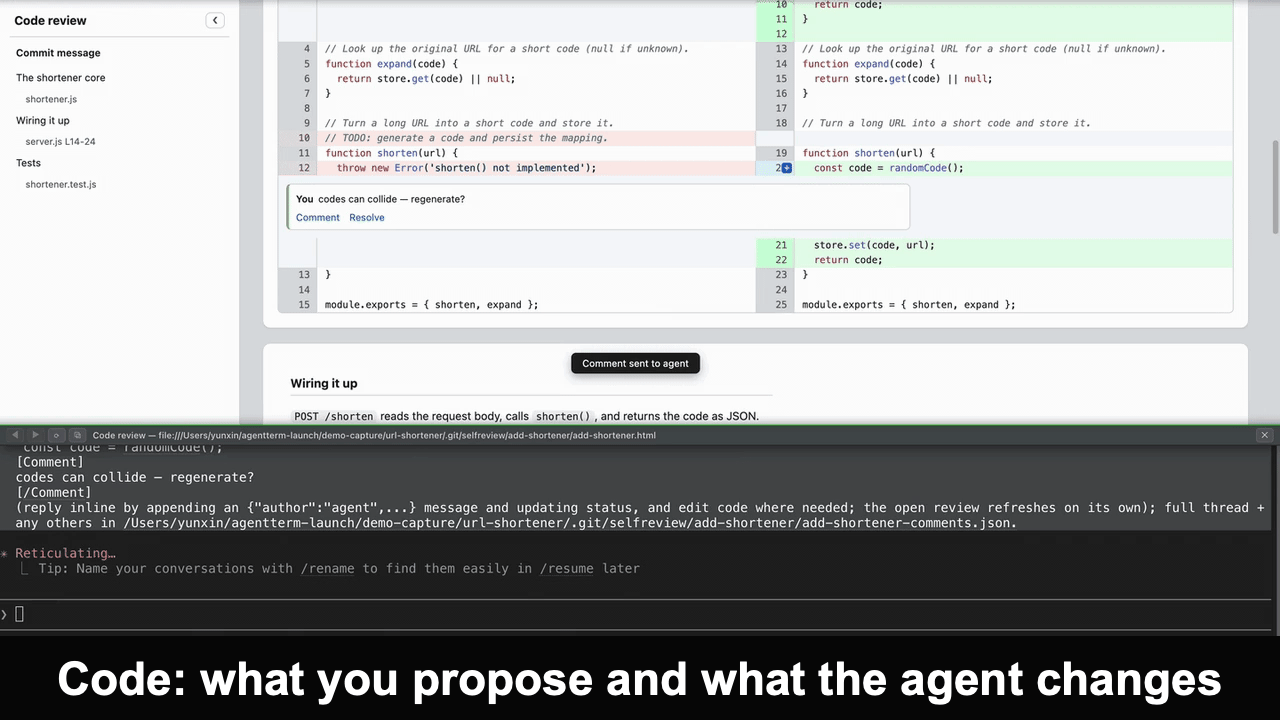
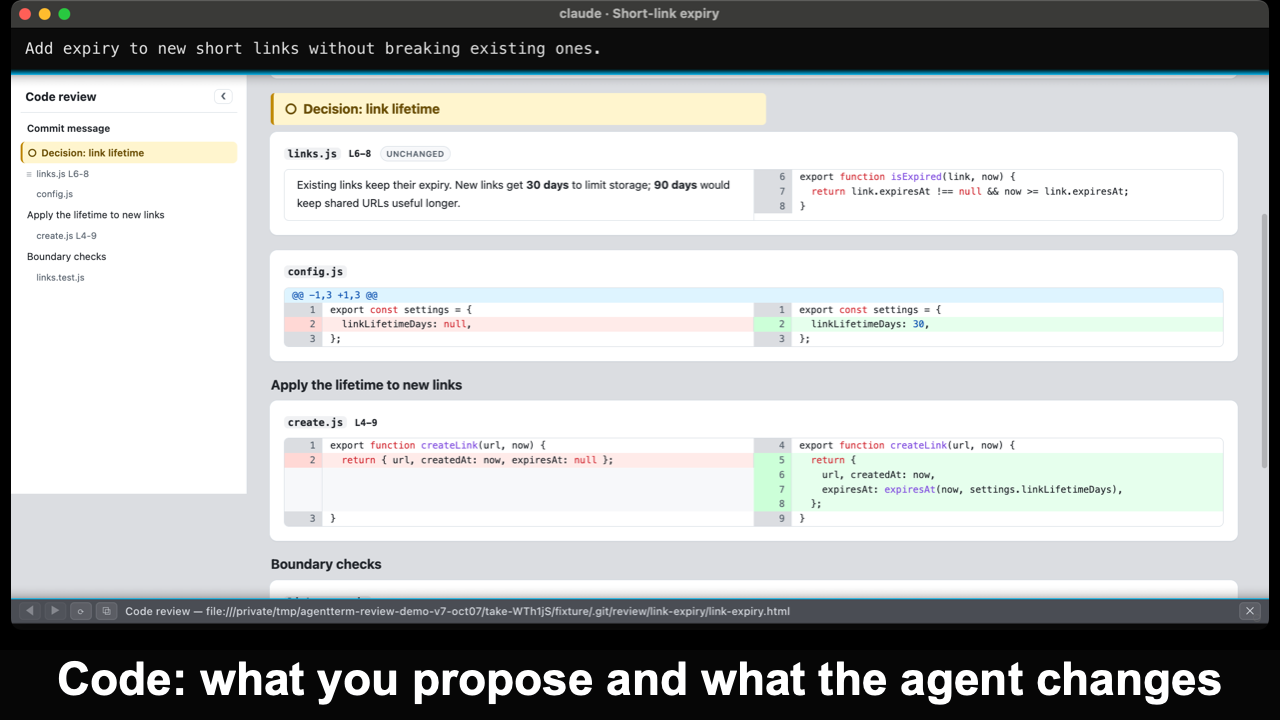
docs: refresh review demo with stable decision highlights
Show unchanged code beside its explanation, a golden split while the
agent works, and the confirmed decision with updated code and reply.
Keep the top content stable across all three frames. Replace only the
three review frames, preserve all other frames and timings, and rename
the hero GIF to refresh cached previews.

diff --git a/README.md b/README.md
@@ -11,9 +11,9 @@
 
 AgentTerm is a full terminal where your existing and new AI CLI sessions run as usual. But it turns each session's terminal window into a rich visual workspace for the new way of working with multiple agents, docs, and code *(autoplays after loading)*:
 
-[![stills from the terminal: session tiles, the picker, commenting on output, writing on a plan, a curated review, and phone status and session views](docs/assets/hero-demo-e552fbdd81eb.gif)](https://raw.githubusercontent.com/albertwujj/agent-term/main/docs/assets/hero-demo-e552fbdd81eb.gif)
+[![stills from the terminal: session tiles, the picker, commenting on output, writing on a plan, a curated review, and phone status and session views](docs/assets/hero-demo-e15f93a91bc1.gif)](https://raw.githubusercontent.com/albertwujj/agent-term/main/docs/assets/hero-demo-e15f93a91bc1.gif)
 
-*View a frame:* [Tell apart 1](https://raw.githubusercontent.com/albertwujj/agent-term/main/docs/assets/frames/sessions-1.png?v=7bf806f6fa73) · [Tell apart 2](https://raw.githubusercontent.com/albertwujj/agent-term/main/docs/assets/frames/sessions-2.png?v=9d883735668d) · [Resume](https://raw.githubusercontent.com/albertwujj/agent-term/main/docs/assets/frames/resume.png) · [Comment](https://raw.githubusercontent.com/albertwujj/agent-term/main/docs/assets/frames/comment.png) · [Docs 1](https://raw.githubusercontent.com/albertwujj/agent-term/main/docs/assets/frames/docs-1.png?v=e64928d57d17) · [Docs 2](https://raw.githubusercontent.com/albertwujj/agent-term/main/docs/assets/frames/docs-2.png?v=eaf87d5808f8) · [Docs 3](https://raw.githubusercontent.com/albertwujj/agent-term/main/docs/assets/frames/docs-3.png?v=08a1a3cecb05) · [Code 1](https://raw.githubusercontent.com/albertwujj/agent-term/main/docs/assets/frames/code-1.png) · [Code 2](https://raw.githubusercontent.com/albertwujj/agent-term/main/docs/assets/frames/code-2.png) · [Code 3](https://raw.githubusercontent.com/albertwujj/agent-term/main/docs/assets/frames/code-3.png) · [Phone 1](https://raw.githubusercontent.com/albertwujj/agent-term/main/docs/assets/frames/phone-1-e58c3dbfe6c6.png) · [Phone 2](https://raw.githubusercontent.com/albertwujj/agent-term/main/docs/assets/frames/phone-2-1266e3d01d5d.png).
+*View a frame:* [Tell apart 1](https://raw.githubusercontent.com/albertwujj/agent-term/main/docs/assets/frames/sessions-1.png?v=7bf806f6fa73) · [Tell apart 2](https://raw.githubusercontent.com/albertwujj/agent-term/main/docs/assets/frames/sessions-2.png?v=9d883735668d) · [Resume](https://raw.githubusercontent.com/albertwujj/agent-term/main/docs/assets/frames/resume.png) · [Comment](https://raw.githubusercontent.com/albertwujj/agent-term/main/docs/assets/frames/comment.png) · [Docs 1](https://raw.githubusercontent.com/albertwujj/agent-term/main/docs/assets/frames/docs-1.png?v=e64928d57d17) · [Docs 2](https://raw.githubusercontent.com/albertwujj/agent-term/main/docs/assets/frames/docs-2.png?v=eaf87d5808f8) · [Docs 3](https://raw.githubusercontent.com/albertwujj/agent-term/main/docs/assets/frames/docs-3.png?v=08a1a3cecb05) · [Code 1](https://raw.githubusercontent.com/albertwujj/agent-term/main/docs/assets/frames/code-1.png?v=9b248f9bfdb7) · [Code 2](https://raw.githubusercontent.com/albertwujj/agent-term/main/docs/assets/frames/code-2.png?v=cac9bb8f8eb4) · [Code 3](https://raw.githubusercontent.com/albertwujj/agent-term/main/docs/assets/frames/code-3.png?v=db149baa47b4) · [Phone 1](https://raw.githubusercontent.com/albertwujj/agent-term/main/docs/assets/frames/phone-1-e58c3dbfe6c6.png) · [Phone 2](https://raw.githubusercontent.com/albertwujj/agent-term/main/docs/assets/frames/phone-2-1266e3d01d5d.png).
 
 *Dive deeper:* [Tell apart](docs/sessions.md#switch-to-the-right-running-session) · [Resume](docs/sessions.md#find-and-resume-sessions) · [Comment](docs/comment.md) · [Docs](docs/plan.md) · [Code](docs/review.md) · [Phone](docs/phone.md).
 
